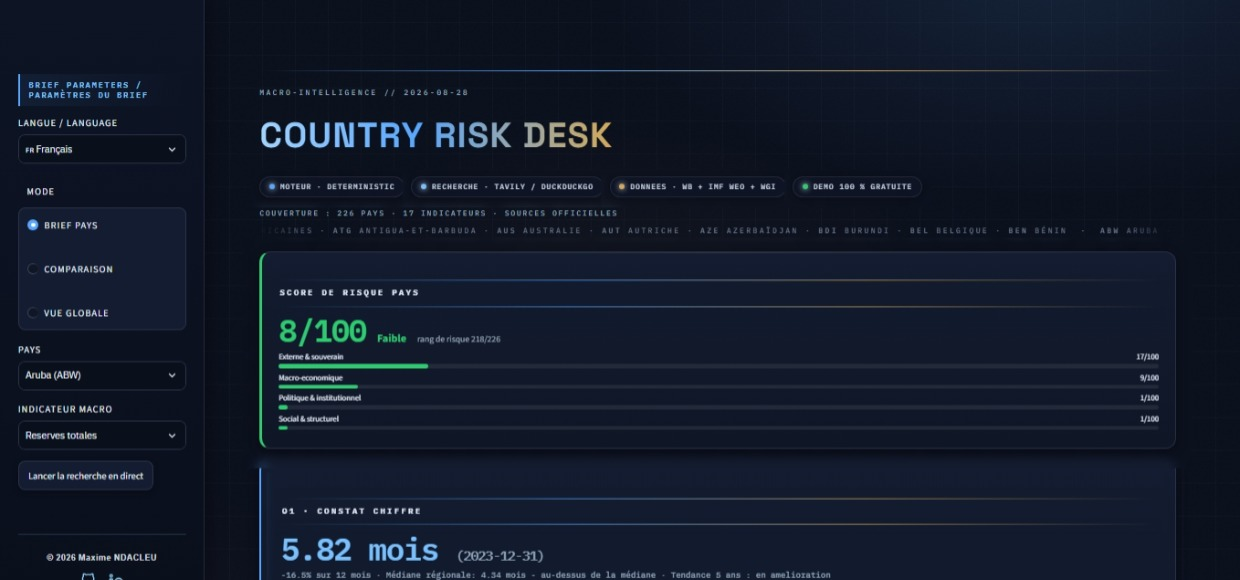
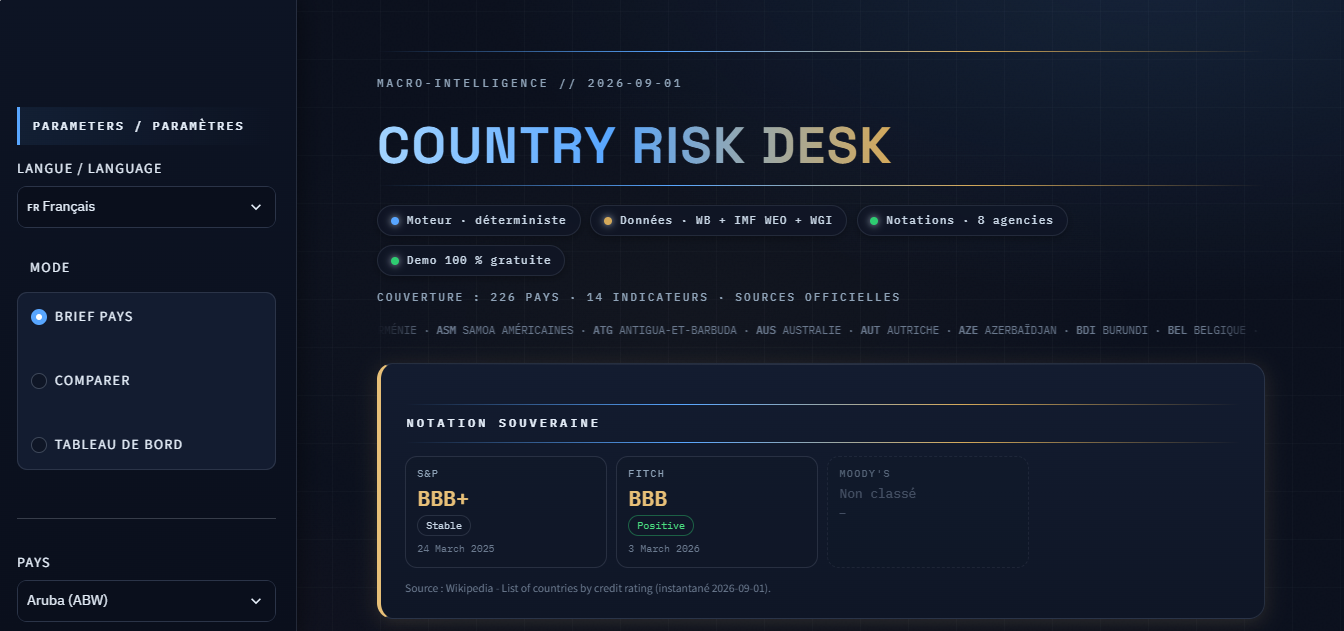
refactor: update Country Risk Desk project description

diff --git a/index.html b/index.html
@@ -382,11 +382,11 @@ html[data-theme="dark"] .icon-moon { display: none; }
                 </div>
                 <div class="project-content">
                     <div class="project-header"><h3>Country Risk Desk</h3><span class="project-year">2026</span></div>
-                    <p class="project-description" data-i18n="p1_d">Desk de risque pays macro-financier 100% déterministe. Brief complet et sourcé pour 226 économies sur 17 indicateurs, avec score agrégé 0-100, alertes seuil et projections FMI.</p>
+                    <p class="project-description" data-i18n="p1_d">Outil d'analyse macro-financière du risque pays, fondé exclusivement sur des données officielles et des règles documentées.</p>
                     <div class="project-features">
-                        <div class="feature"><svg width="16" height="16" viewBox="0 0 24 24" fill="none"><path d="M22 11.08V12C22 14.16 21.3 16.25 20.01 17.98C18.72 19.71 16.9 20.97 14.84 21.58C12.77 22.2 10.56 22.12 8.53 21.37C6.51 20.63 4.78 19.25 3.61 17.44C2.44 15.63 1.88 13.49 2.02 11.34C2.16 9.18 3 7.14 4.4 5.5C5.8 3.86 7.69 2.72 9.8 2.24C11.9 1.76 14.1 1.98 16.07 2.86" stroke="currentColor" stroke-width="2" stroke-linecap="round"/><path d="M22 4L12 14.01L9 11.01" stroke="currentColor" stroke-width="2" stroke-linecap="round" stroke-linejoin="round"/></svg><span data-i18n="p1_f1">226 économies × 17 indicateurs</span></div>
+                        <div class="feature"><svg width="16" height="16" viewBox="0 0 24 24" fill="none"><path d="M22 11.08V12C22 14.16 21.3 16.25 20.01 17.98C18.72 19.71 16.9 20.97 14.84 21.58C12.77 22.2 10.56 22.12 8.53 21.37C6.51 20.63 4.78 19.25 3.61 17.44C2.44 15.63 1.88 13.49 2.02 11.34C2.16 9.18 3 7.14 4.4 5.5C5.8 3.86 7.69 2.72 9.8 2.24C11.9 1.76 14.1 1.98 16.07 2.86" stroke="currentColor" stroke-width="2" stroke-linecap="round"/><path d="M22 4L12 14.01L9 11.01" stroke="currentColor" stroke-width="2" stroke-linecap="round" stroke-linejoin="round"/></svg><span data-i18n="p1_f1">226 économies × 14 indicateurs</span></div>
                         <div class="feature"><svg width="16" height="16" viewBox="0 0 24 24" fill="none"><path d="M22 11.08V12C22 14.16 21.3 16.25 20.01 17.98C18.72 19.71 16.9 20.97 14.84 21.58C12.77 22.2 10.56 22.12 8.53 21.37C6.51 20.63 4.78 19.25 3.61 17.44C2.44 15.63 1.88 13.49 2.02 11.34C2.16 9.18 3 7.14 4.4 5.5C5.8 3.86 7.69 2.72 9.8 2.24C11.9 1.76 14.1 1.98 16.07 2.86" stroke="currentColor" stroke-width="2" stroke-linecap="round"/><path d="M22 4L12 14.01L9 11.01" stroke="currentColor" stroke-width="2" stroke-linecap="round" stroke-linejoin="round"/></svg><span data-i18n="p1_f2">Sources officielles uniquement (FMI, Banque Mondiale)</span></div>
-                        <div class="feature"><svg width="16" height="16" viewBox="0 0 24 24" fill="none"><path d="M22 11.08V12C22 14.16 21.3 16.25 20.01 17.98C18.72 19.71 16.9 20.97 14.84 21.58C12.77 22.2 10.56 22.12 8.53 21.37C6.51 20.63 4.78 19.25 3.61 17.44C2.44 15.63 1.88 13.49 2.02 11.34C2.16 9.18 3 7.14 4.4 5.5C5.8 3.86 7.69 2.72 9.8 2.24C11.9 1.76 14.1 1.98 16.07 2.86" stroke="currentColor" stroke-width="2" stroke-linecap="round"/><path d="M22 4L12 14.01L9 11.01" stroke="currentColor" stroke-width="2" stroke-linecap="round" stroke-linejoin="round"/></svg><span data-i18n="p1_f3">Export PDF/CSV/Excel bilingue FR/EN</span></div>
+                        <div class="feature"><svg width="16" height="16" viewBox="0 0 24 24" fill="none"><path d="M22 11.08V12C22 14.16 21.3 16.25 20.01 17.98C18.72 19.71 16.9 20.97 14.84 21.58C12.77 22.2 10.56 22.12 8.53 21.37C6.51 20.63 4.78 19.25 3.61 17.44C2.44 15.63 1.88 13.49 2.02 11.34C2.16 9.18 3 7.14 4.4 5.5C5.8 3.86 7.69 2.72 9.8 2.24C11.9 1.76 14.1 1.98 16.07 2.86" stroke="currentColor" stroke-width="2" stroke-linecap="round"/><path d="M22 4L12 14.01L9 11.01" stroke="currentColor" stroke-width="2" stroke-linecap="round" stroke-linejoin="round"/></svg><span data-i18n="p1_f3">Notations souveraines S&P, Moody's et Fitch</span></div>
                     </div>
                     <div class="project-links">
                         <a href="https://github.com/maxin-dac/country-risk-desk" target="_blank" rel="noopener" class="project-link"><svg viewBox="0 0 24 24" fill="currentColor"><path d="M12 .297c-6.63 0-12 5.373-12 12 0 5.303 3.438 9.8 8.205 11.385.6.113.82-.258.82-.577 0-.285-.01-1.04-.015-2.04-3.338.724-4.042-1.61-4.042-1.61C4.422 18.07 3.633 17.7 3.633 17.7c-1.087-.744.084-.729.084-.729 1.205.084 1.838 1.236 1.838 1.236 1.07 1.835 2.809 1.305 3.495.998.108-.776.417-1.305.76-1.605-2.665-.3-5.466-1.332-5.466-5.93 0-1.31.465-2.38 1.235-3.22-.135-.303-.54-1.523.105-3.176 0 0 1.005-.322 3.3 1.23.96-.267 1.98-.399 3-.405 1.02.006 2.04.138 3 .405 2.28-1.552 3.285-1.23 3.285-1.23.645 1.653.24 2.873.12 3.176.765.84 1.23 1.91 1.23 3.22 0 4.61-2.805 5.625-5.475 5.92.42.36.81 1.096.81 2.22 0 1.606-.015 2.896-.015 3.286 0 .315.21.69.825.57C20.565 22.092 24 17.592 24 12.297c0-6.627-5.373-12-12-12"/></svg><span data-i18n="lnk_code">Code source</span></a>
@@ -677,8 +677,8 @@ const I18N = {
         a3_p: "Formé également aux fondamentaux de l'Intelligence Artificielle, du Machine Learning et du Deep Learning, j'applique ces connaissances à la création d'agents intelligents et à l'automatisation de processus. En constante montée en compétences, je travaille au déploiement de projets IA de bout en bout.",
         proj_tag: "Projets", proj_title: "Des travaux qui ont de l'impact",
         proj_sub: "Chaque projet est une réponse concrète à un problème business, avec des données vérifiables et des méthodologies transparentes.",
-        p1_d: "Desk de risque pays macro-financier 100% déterministe. Brief complet et sourcé pour 226 économies sur 17 indicateurs, avec score agrégé 0-100, alertes seuil et projections FMI.",
-        p1_f1: "226 économies × 17 indicateurs", p1_f2: "Sources officielles uniquement (FMI, Banque Mondiale)", p1_f3: "Export PDF/CSV/Excel bilingue FR/EN",
+        p1_d: "Outil d'analyse macro-financière du risque pays, fondé exclusivement sur des données officielles et des règles documentées.",
+        p1_f1: "226 économies × 14 indicateurs", p1_f2: "Sources officielles uniquement (FMI, Banque Mondiale)", p1_f3: "Notations souveraines S&P, Moody's et Fitch",
         p2_d: "Plateforme bilingue d'intelligence économique analysant 217 pays selon l'approche PESTEL. 58 indicateurs Banque Mondiale structurés en 6 vues coordonnées avec jumeau Power BI.",
         p2_f1: "217 pays × 58 indicateurs (2000-2024)", p2_f2: "6 vues PESTEL coordonnées", p2_f3: "Power BI + Docker + CI/CD",
         p3_d: "Un cadre d'analyse comparative standardisé pour les 19 banques commerciales camerounaises. Toujours en cours de finalisation, ce projet intègrera également une consolidation globale de la réglementation bancaire régionale.",
@@ -731,8 +731,8 @@ const I18N = {
         a3_p: "Also trained in the fundamentals of Artificial Intelligence, Machine Learning and Deep Learning, I apply this knowledge to building intelligent agents and automating processes. Continuously upskilling, I am working towards end-to-end AI project deployment.",
         proj_tag: "Projects", proj_title: "Work that makes an impact",
         proj_sub: "Each project is a concrete answer to a business problem, with verifiable data and transparent methodologies.",
-        p1_d: "A 100% deterministic macro-financial country risk desk. Complete, sourced briefs for 226 economies across 17 indicators, with a 0-100 aggregate score, threshold alerts and IMF projections.",
-        p1_f1: "226 economies × 17 indicators", p1_f2: "Official sources only (IMF, World Bank)", p1_f3: "Bilingual FR/EN PDF/CSV/Excel export",
+        p1_d: "Macro-financial country risk analysis tool, based exclusively on official data and documented rules.",
+        p1_f1: "226 economies × 14 indicators", p1_f2: "Official sources only (IMF, World Bank)", p1_f3: "Sovereign ratings from S&P, Moody's, and Fitch",
         p2_d: "A bilingual economic intelligence platform screening 217 countries through the PESTEL framework. 58 World Bank indicators structured across 6 coordinated views with a Power BI twin.",
         p2_f1: "217 countries × 58 indicators (2000-2024)", p2_f2: "6 coordinated PESTEL views", p2_f3: "Power BI + Docker + CI/CD",
         p3_d: "A standardized comparative analysis framework for Cameroon's 19 commercial banks. Still being finalized, the project will also integrate a comprehensive consolidation of regional banking regulation.",
